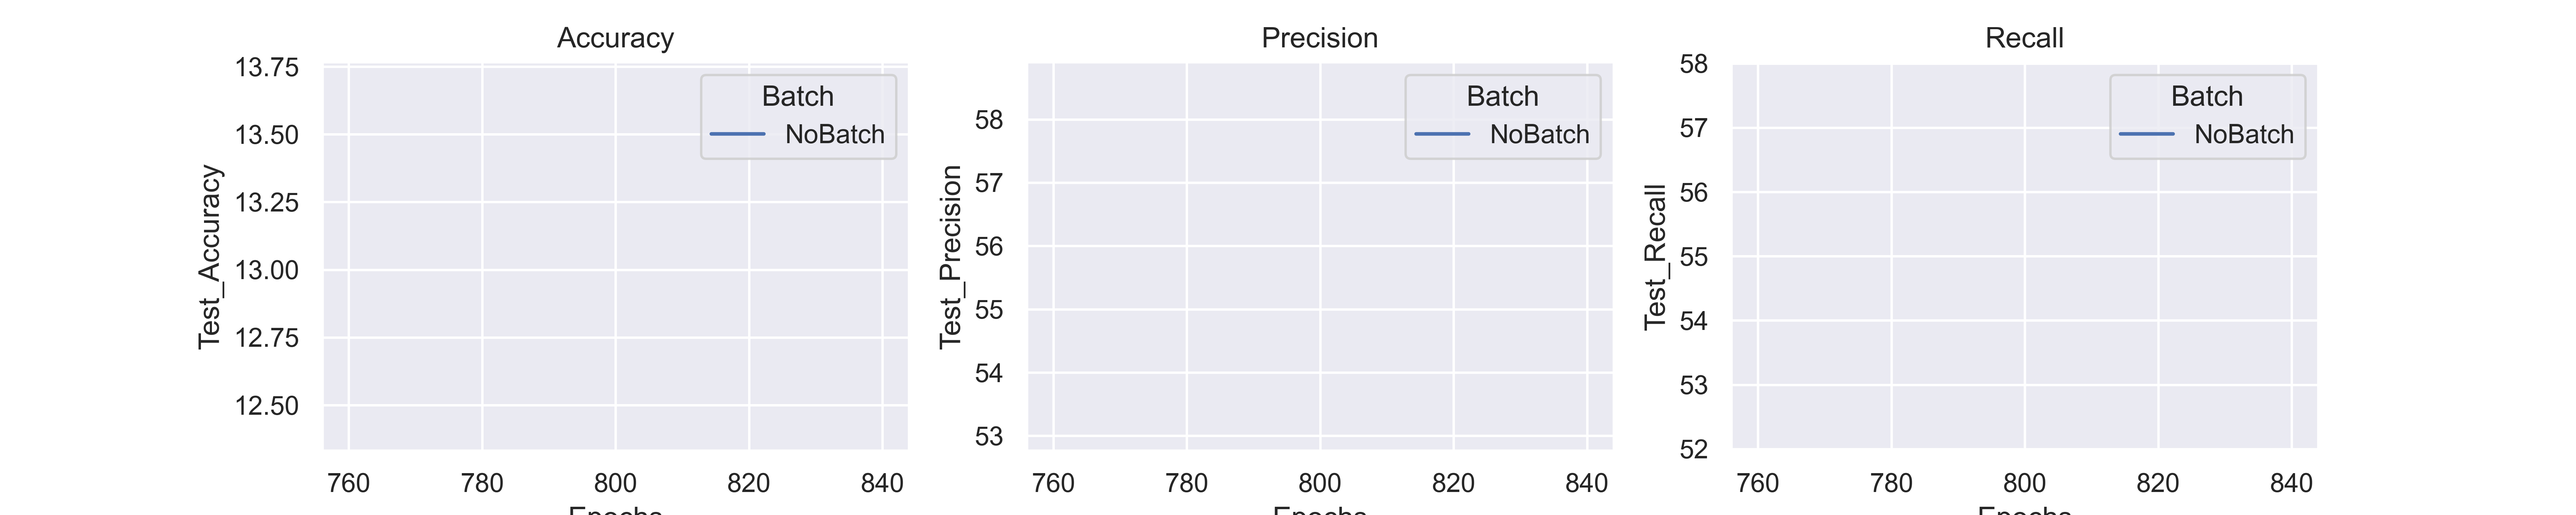
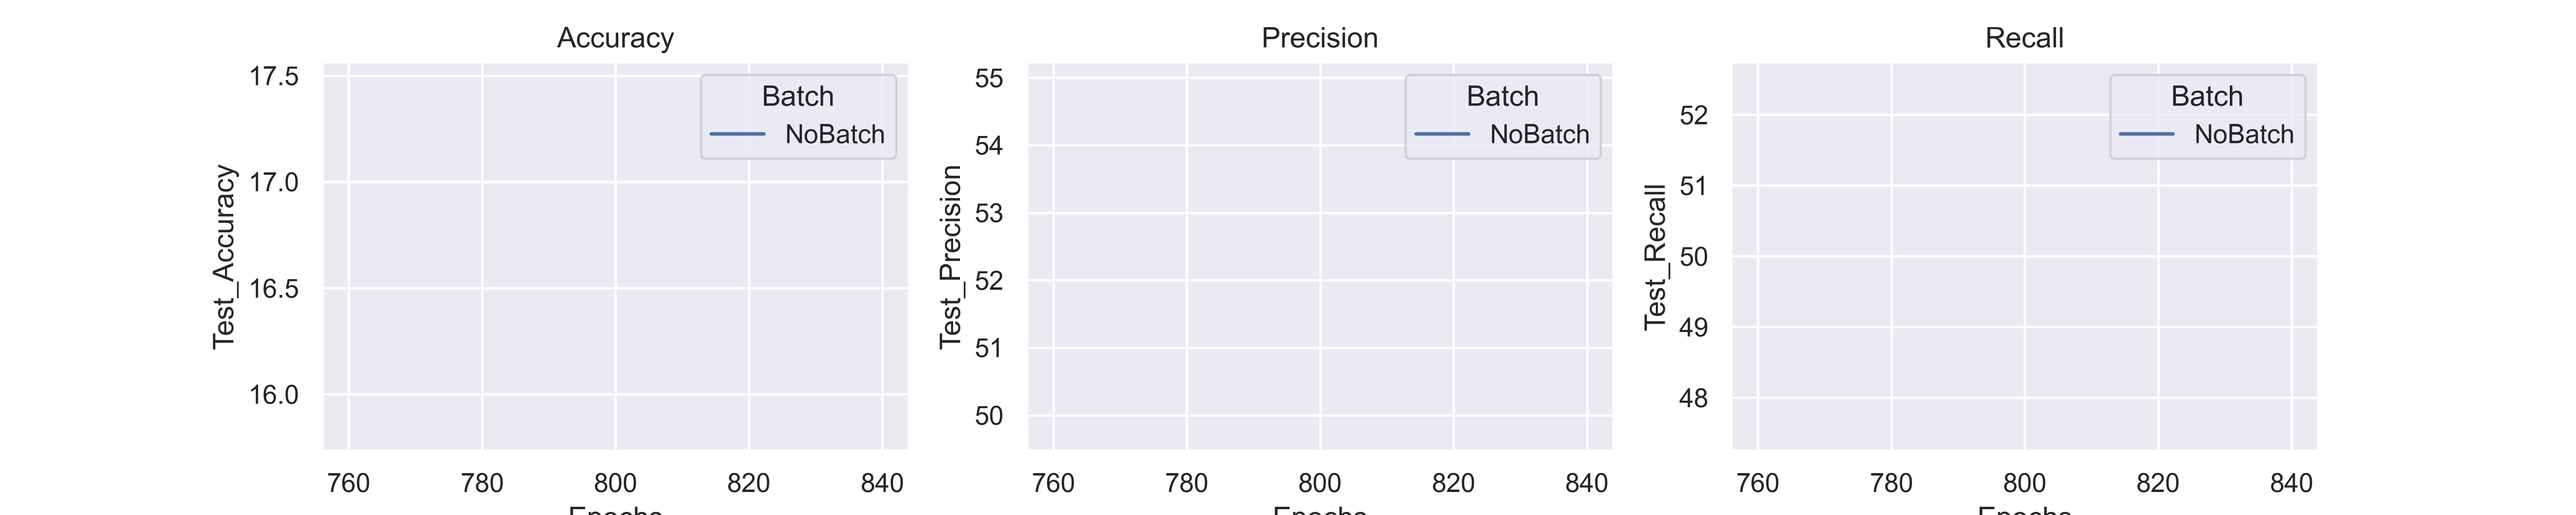
04/02

diff --git a/01_NN_Script_2.py b/01_NN_Script_2.py
@@ -13,6 +13,8 @@ from tensorflow.keras.models import Sequential
 from tensorflow.keras.layers import Dense
 from sklearn.preprocessing import LabelEncoder
 from sklearn.model_selection import train_test_split
+from tensorflow.keras.metrics import Recall, Precision, CategoricalAccuracy
+
 
 #%%
 model = Sequential( [ 
@@ -26,7 +28,7 @@ model = Sequential( [
 model.compile(
     optimizer='adam',
     loss='categorical_crossentropy',
-    metrics=['accuracy']    
+    metrics=[CategoricalAccuracy(), Precision(), Recall()]    
 )
 
 
@@ -45,8 +47,8 @@ X =pd.concat([df_mean_std_chromas,df_mean_std_mfccs,df_tempo],axis=1)
 
 X_train, X_test, y_train, y_test = train_test_split(X, y, test_size=0.20, random_state=42)
 model.fit(X_train, y_train, epochs=500)
-loss, accuracy = model.evaluate(X_test, y_test)
-print('Test set accuracy = ', accuracy*100)
+loss, accuracy, precision, recall = model.evaluate(X_test, y_test)
+print('Test set accuracy = {}. Precision = {}. Recall = {}'.format(accuracy*100,precision*100,recall*100))
 
 #%% 
 

diff --git a/01_NN_Script.py b/01_NN_Script.py
@@ -22,7 +22,7 @@ from sklearn.preprocessing import LabelEncoder
 from sklearn.model_selection import train_test_split
 from tensorflow.keras.metrics import Recall, Precision, Accuracy
 import FunctionsDataViz
-import FunctionsNN
+from FunctionsNN import Neural_Network_Classif
 
 #%% Table with the results
 all_results = pd.DataFrame(columns=['Model','Optimizer','Epochs', 'Batch',
@@ -57,7 +57,7 @@ n_batchList = [None]
 Modèle 1 : Modèle de NN avec 30  Moyennes des MFCCS en input 
 """
 #Features
-X1 = mean_mfccs
+X1 = df_mean_mfccs
 
 model_name1 = 'NN_30meanMFCCs'
 optimizer_ = 'adam'
